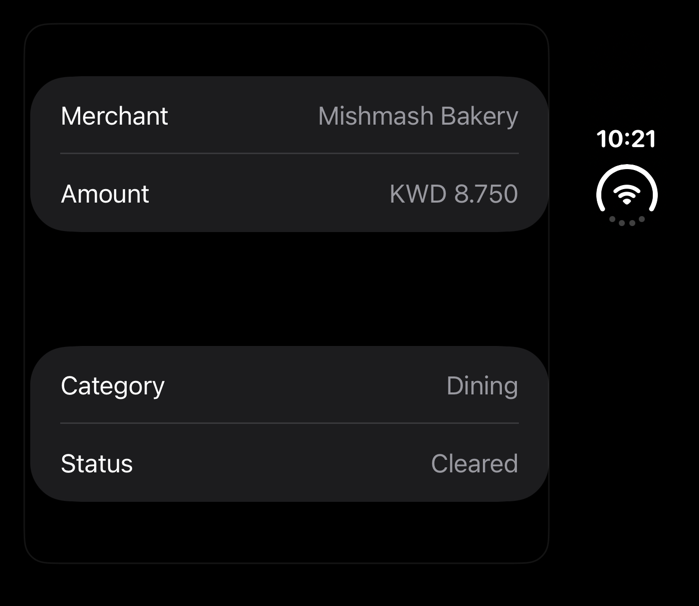
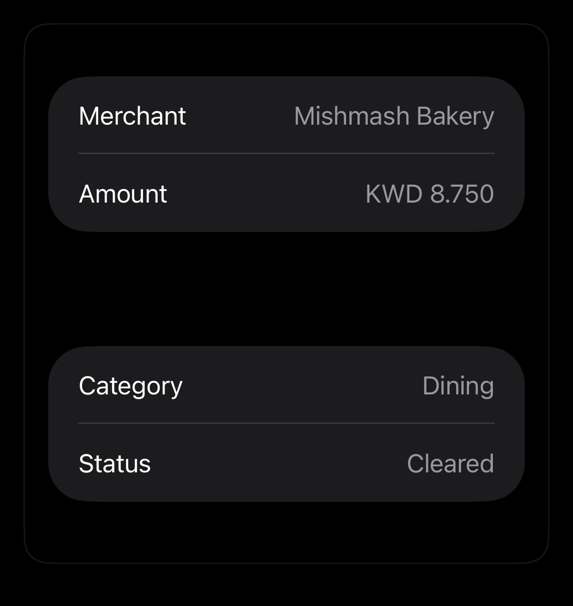
fix(showcase): even margins and theme corners in the fold captures
capture_previews.py crops to the demo's width, so the iPhone Duo cover
display's side status bar is no longer in the image. The fold-companion and
fold-arrangement demos clip to the theme card radius and add 16 pt horizontal
scroll margins. Recaptured their four light and dark images.

diff --git a/Examples/Showcase/SweetUIShowcasePackage/Sources/SweetUIShowcaseFeature/RecipeDemos.swift b/Examples/Showcase/SweetUIShowcasePackage/Sources/SweetUIShowcaseFeature/RecipeDemos.swift
@@ -402,6 +402,8 @@ struct TooltipRecipe: View {
 }
 
 struct FoldArrangementRecipe: View {
+    @Environment(\.registryTheme) private var theme
+
     var body: some View {
         Group {
             if #available(iOS 27.1, *) {
@@ -417,12 +419,14 @@ struct FoldArrangementRecipe: View {
                     }
                 }
                 .arrangementViewStyle(.split)
+                .contentMargins(.horizontal, 16, for: .scrollContent)
             } else {
                 Text("ArrangementView needs iOS 27.1.")
                     .foregroundStyle(.secondary)
             }
         }
         .frame(height: 360)
+        .clipShape(RoundedRectangle(cornerRadius: theme.metrics.cardRadius, style: .continuous))
         .registrySurface()
         .registryItem("fold-arrangement")
     }

diff --git a/Examples/Showcase/SweetUIShowcasePackage/Sources/SweetUIShowcaseFeature/ComponentDemos.swift b/Examples/Showcase/SweetUIShowcasePackage/Sources/SweetUIShowcaseFeature/ComponentDemos.swift
@@ -984,6 +984,7 @@ struct ChartDemo: View {
 }
 
 struct FoldCompanionDemo: View {
+    @Environment(\.registryTheme) private var theme
     @State private var isShowingDetails = false
 
     var body: some View {
@@ -1006,6 +1007,7 @@ struct FoldCompanionDemo: View {
             }
         }
         .frame(height: 360)
+        .clipShape(RoundedRectangle(cornerRadius: theme.metrics.cardRadius, style: .continuous))
         .registrySurface()
     }
 }

diff --git a/Scripts/capture_previews.py b/Scripts/capture_previews.py
@@ -216,19 +216,24 @@ def capture(
     top = max(0, int((info["y"] - TOP_MARGIN_POINTS) * scale))
     bottom = min(pixel_height, int((info["y"] + info["height"] + BOTTOM_MARGIN_POINTS) * scale))
     height = max(1, bottom - top)
+    # The demo's frame includes its padding, so cropping to its width keeps even side margins and
+    # drops chrome beside it: the iPhone Duo cover display shows its status bar at the side. On an
+    # iPhone the frame spans the screen, so the crop is the whole width.
+    left = max(0, int(info["x"] * scale))
+    width = max(1, min(pixel_width - left, int(info["width"] * scale)))
     # sips crops around the center; offset it to the content's top edge. sips ignores an offset
     # of 0 and crops around the center, which a display without a top status bar (the iPhone Duo
     # cover display) hits, so the offset is at least one pixel row.
     run([
         "sips", str(raw_path),
-        "--cropToHeightWidth", str(height), str(pixel_width),
-        "--cropOffset", str(max(top, 1)), "0",
+        "--cropToHeightWidth", str(height), str(width),
+        "--cropOffset", str(max(top, 1)), str(left),
         "--out", str(raw_path),
     ])
     destination.parent.mkdir(parents=True, exist_ok=True)
     run([
         "sips", str(raw_path),
-        "--resampleWidth", str(pixel_width // 2),
+        "--resampleWidth", str(width // 2),
         "--setProperty", "format", "png",
         "--out", str(destination),
     ])
